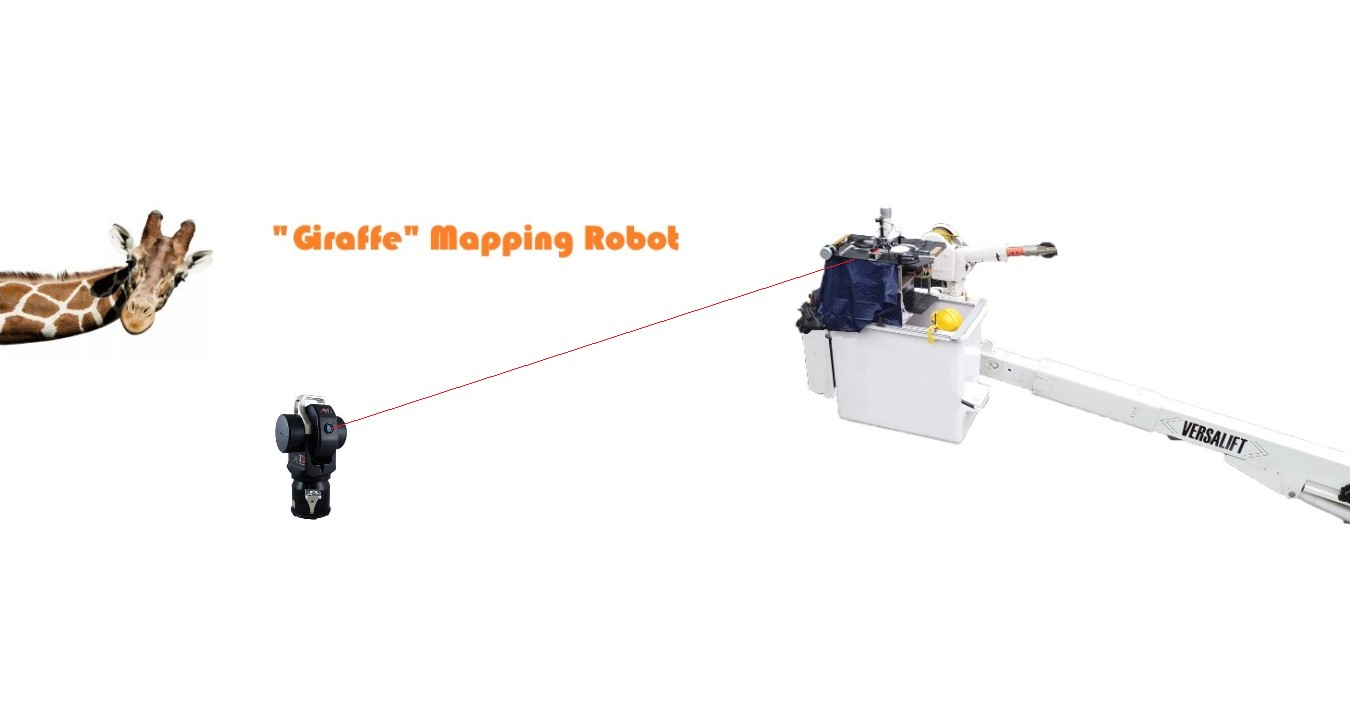
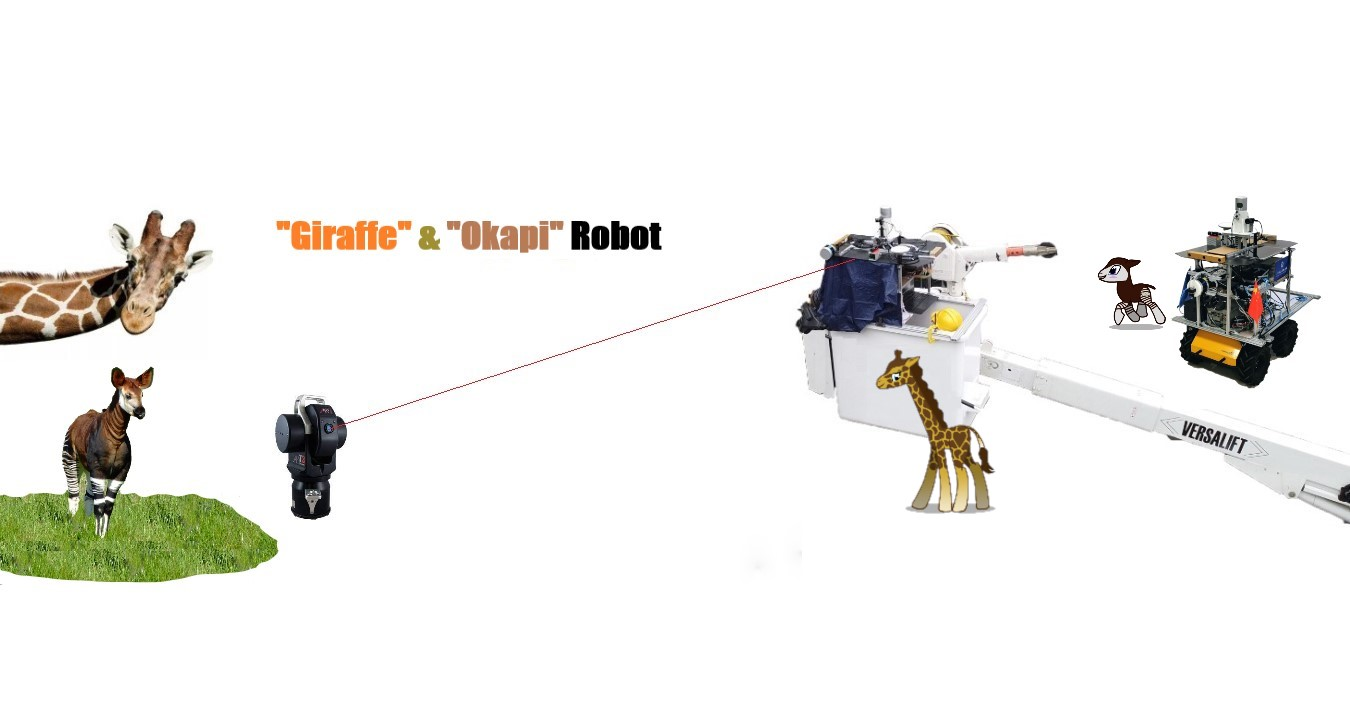
4-10

diff --git a/pages/design.md b/pages/design.md
@@ -1,7 +1,7 @@
 ---
 layout: page-fullwidth
 show_meta: false
-#title: "Style your content!"
+title: "Sensors & Usage"
 #subheadline: "Layouts of Feeling Responsive"
 header:
    image_fullwidth: "header_unsplash_5.jpg"
@@ -18,9 +18,18 @@ The sensor setup is illustrated in [Fig. 1](#fig-harware). The corresponding ROS
 	    <th>Platform</th>
 	</tr >
 	<tr>
-      <td rowspan="5"><img src="../images/platform.png" /></td>
+      <td rowspan="5"><img src="../images/Okapia _platform.png" width="97%"/></td>
 	</tr>
-
+</table>
+<table>
+	<tr>
+	    <th>Vehicle</th>
+          <th>Pic</th> 
+	</tr >
+	<tr>
+      <td width="30%">Husky A200</td>
+      <td><img src="../images/Husky_dipan.jpg" width="60%"/></td>
+	</tr>
 </table>
 </td>
 <td>
@@ -39,7 +48,7 @@ The sensor setup is illustrated in [Fig. 1](#fig-harware). The corresponding ROS
       <td width="15%">400 Hz</td>
       <td><img src="../images/xsens.jpg" width="30%"/></td>
 	</tr>
-  <tr >
+      <tr >
       <td width="25%">Horizontal Lidar</td>
       <td width="30%">Velodyne HDL-32E</td>
       <td width="10%">10 Hz</td>
@@ -60,25 +69,31 @@ The sensor setup is illustrated in [Fig. 1](#fig-harware). The corresponding ROS
 	<tr>
 	    <td width="25%">Stereo Camera front</td>
       <td width="30%">PointGrey BBX3-13S2C-38</td>
-      <td width="10%">16 Hz</td>
+      <td width="10%">10 Hz</td>
       <td><img src="../images/bumblebee_xb3.jpg" width="40%"/></td>
 	</tr>
-  <tr>
+      <tr>
 	    <td width="25%">Stereo Camera back</td>
       <td width="30%">PointGrey BBX2-08S2C-38</td>
-      <td width="10%">20 Hz</td>
+      <td width="10%">10 Hz</td>
       <td><img src="../images/bumblebee_xb2.jpg" width="30%"/></td>
 	</tr>
 	<tr>
-	     <td width="25%">Mono Camera 1<br>(with HDL-32E)</td>
+	     <td width="25%">Mono Camera 1<br>(with VLP-32C)</td>
       <td width="30%">PointGrey CLMN-13S2C-CS</td>
-      <td width="10%">16 Hz</td>
+      <td width="10%">10 Hz</td>
       <td><img src="../images/CMLN-13S2C-CS.jpg" width="30%"/></td>
 	</tr>
 	<tr>
-	     <td width="25%">Mono Camera 2<br>(with LiVOX Avia)</td>
+	     <td width="25%">Mono Camera 2<br>(with HDL-32E)</td>
+      <td width="30%">Hikvision MV-CB016-10GC-C</td>
+      <td width="10%">20 Hz</td>
+      <td><img src="../images/Hikvision_MV-CB016-10GC-C.png" width="40%"/></td>
+	</tr>
+      <tr>
+      <td width="25%">Mono Camera 3<br>(with LiVOX Avia)</td>
       <td width="30%">Hikvision MV-CE060-10UC</td>
-      <td width="10%">40 Hz</td>
+      <td width="10%">20 Hz</td>
       <td><img src="../images/Hikvision MV-CE060-10UC.png" width="30%"/></td>
 	</tr>
 </table>
@@ -90,9 +105,10 @@ The sensor setup is illustrated in [Fig. 1](#fig-harware). The corresponding ROS
 我们使用的IMU是Xsens MTi-G-710 GNSS/INS, 它是一个9-DoF传感器，可以提供三轴加速度、三轴角速度和三轴磁力计的数据，有许多SLAM算法例如LIO-SAM需要提供初始化的横滚、俯仰和偏航角，
 rosbag的话题名称是`/imu/data`
 
-<p align="center">
-    <img src="../images/xsens.jpg" alt="Hardware Setup" width="30%"/>
-</p>
+<table><tr>
+<td><img src="../images/xsens.jpg" alt="Hardware Setup" width="50%"/></td>
+<td><img src="../images/xsens_zuobiaoxi.png" border=0 width="80%"></td>
+</tr></table>
 <p style="text-align: center;">Fig 2. The IMU frame of reference </p> <a name="fig-hardware"></a>
 
 ## Mechanical Lidar
@@ -142,7 +158,7 @@ void cloudHandler(const sensor_msgs::PointCloud2::ConstPtr &msg)
 ```
 ### Vertical Lidar
 垂直方向的激光雷达型号是Velodyne VLP-32C(Ultra Puck), The VLP-32C sensor uses 32 infra-red (IR) lasers paired with IR detectors to measure distances to objects. The device is mounted securely within a compact, weather-resistant housing. The assembly of laser/detector pairs spins rapidly within
-its fixed housing to scan the surrounding environment, firing pairs of lasers approximately 18,000 times per second, providing, in real-time, a rich set of 3D point data.
+its fixed housing to scan the surrounding environment, firing pairs of lasers approximately 18,000 times per second, providing, in real-time, a rich set of 3D point data.
 
 ## MEMS Lidar
 

diff --git a/pages/pages-root-folder/index.md b/pages/pages-root-folder/index.md
@@ -48,7 +48,7 @@ homepage: true
 ---
 
 # Welcome to the USTC FlyingCar Dataset!
-##### We take advantage of our autonomous driving platform Annieway to develop novel challenging real-world computer vision benchmarks. Our tasks of interest are: stereo, optical flow, visual odometry, 3D object detection and 3D tracking. For this purpose, we equipped a standard station wagon with two high-resolution color and grayscale video cameras. 
+##### We take advantage of our autonomous acquisition system "Giraffe" to develop novel challenging real-world computer vision benchmarks. Our tasks of interest are: stereo, optical flow, visual odometry, 3D object detection, 3D tracking and SLAM. For this purpose, we equipped a multisensors platform with two high-resolution color and grayscale video cameras. 
 
 
 

diff --git a/pages/headers.md b/pages/headers.md
@@ -9,10 +9,14 @@ permalink: "/headers/"
 ---
 
 ## Time Synchronization
+<p align="center">
+    <img src="../images/time_system.png" alt="Time Sync System" width="100%"/>
+</p>
 
 ## IMU
-
+There are two IMUs in the system. First is Xsens MTi-G-710 INS/IMU, this is the main IMU of the system. Second is the IMU in LiVOX Lidar.
 ## Mono Cameras
+There are 8 mono cameras in the system(include each mono camera in Bumblebee stereo cameras). 
 
 ## Stereo Cameras
 
